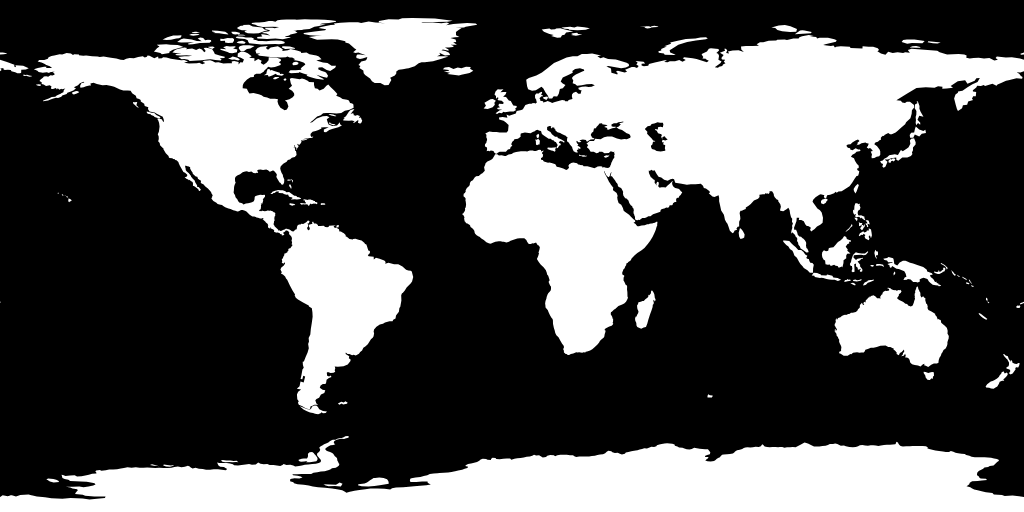
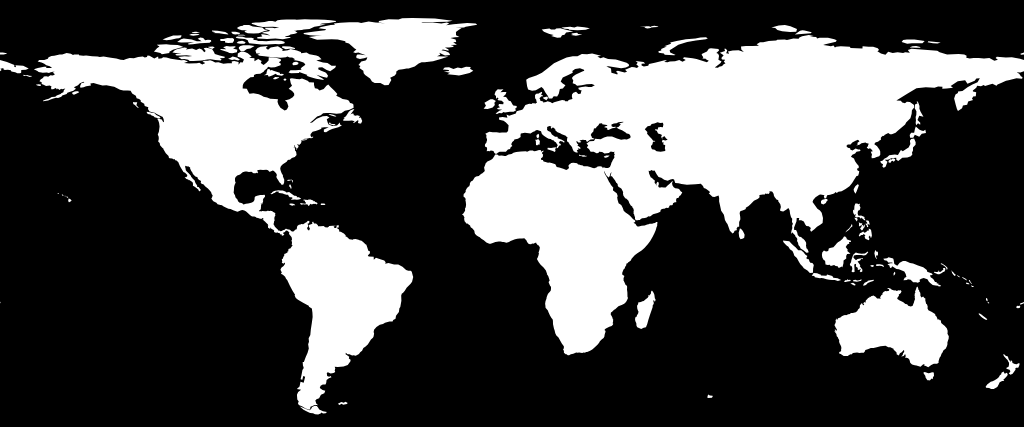
Cut Antarctica from hero map, stop caching css/js, longer jarvis easter egg
- world-mask.png regenerated at 1024x427 (lat +90..-60) so Antarctica no
  longer sits behind the hero status line; map aspect now derived from the
  loaded image instead of a hardcoded 2.0
- firebase.json: css/js served no-cache, must-revalidate (they were sitting
  in browsers for up to an hour behind max-age=3600, so shipped fixes read
  as not-shipped)
- runBootLog takes a holdDelay; the jarvis easter egg now types three lines
  and holds ~1.6s longer before dismissing

Claude-Session: https://claude.ai/code/session_013Qfn8VZ74czYSUP55winjP

Changed region(s): [[0.0, 0.0304, 1.0, 1.0]]

diff --git a/assets/js/site.js b/assets/js/site.js
@@ -89,7 +89,7 @@
     }, 350);
   }
 
-  function runBootLog(lines, onDone, startDelay) {
+  function runBootLog(lines, onDone, startDelay, holdDelay) {
     var logo = document.getElementById("loader-logo");
     var log = document.getElementById("loader-log");
     if (!log) { onDone(); return; }
@@ -102,7 +102,7 @@
           logo.classList.add("is-glitching");
           logo.addEventListener("animationend", function () { logo.classList.remove("is-glitching"); }, { once: true });
         }
-        setTimeout(onDone, 380);
+        setTimeout(onDone, 380 + (holdDelay || 0));
         return;
       }
       var el = document.createElement("div");
@@ -398,7 +398,7 @@
       "    float edge = fbm(muv * 34.0 + t * 0.6);\n" +
       "    float dissolve = uHasMouse * smoothstep(0.46, 0.0, length((uv - uMouse) * vec2(uRes.x / uRes.y, 1.0)));\n" +
       "    land *= 1.0 - smoothstep(0.04, 0.6, dissolve * (0.72 + edge * 0.85));\n" +
-      "    land *= smoothstep(0.03, 0.38, uv.y);\n" +
+      "    land *= smoothstep(0.0, 0.10, uv.y);\n" +
       "    float coast = smoothstep(0.04, 0.5, land) * (1.0 - smoothstep(0.5, 0.96, land));\n" +
       "    vec3 landCol = uBase2 * 1.7 + hiMix * 0.42;\n" +
       "    col = mix(col, landCol, land);\n" +
@@ -452,9 +452,10 @@
     gl.uniform1f(uHasMap, 0.0);
     gl.uniform2f(uMapScale, 1.0, 1.0);
 
+    var mapAspect = 2.0;
+
     function fitMapScale() {
       var canvasAspect = Math.max(canvas.width, 1) / Math.max(canvas.height, 1);
-      var mapAspect = 2.0;
       if (canvasAspect > mapAspect) {
         gl.uniform2f(uMapScale, 1.0, mapAspect / canvasAspect);
       } else {
@@ -473,6 +474,7 @@
         gl.texParameteri(gl.TEXTURE_2D, gl.TEXTURE_MIN_FILTER, gl.LINEAR);
         gl.texParameteri(gl.TEXTURE_2D, gl.TEXTURE_MAG_FILTER, gl.LINEAR);
         gl.texImage2D(gl.TEXTURE_2D, 0, gl.RGBA, gl.RGBA, gl.UNSIGNED_BYTE, mapImg);
+        mapAspect = mapImg.width / mapImg.height;
         gl.uniform1i(uMap, 0);
         gl.uniform1f(uHasMap, 1.0);
         fitMapScale();
@@ -1005,10 +1007,14 @@
     if (!loader) return;
     loader.style.display = "flex";
     loader.classList.remove("is-hidden");
-    runBootLog([message || "hey, you found it."], function () {
+    runBootLog([
+      "> keyword accepted: JARVIS",
+      "> unlocking hidden routine... OK",
+      message || "hey, you found it."
+    ], function () {
       loader.classList.add("is-hidden");
       setTimeout(function () { loader.style.display = "none"; }, 400);
-    }, 150);
+    }, 150, 1600);
   }
 
   (function () {
